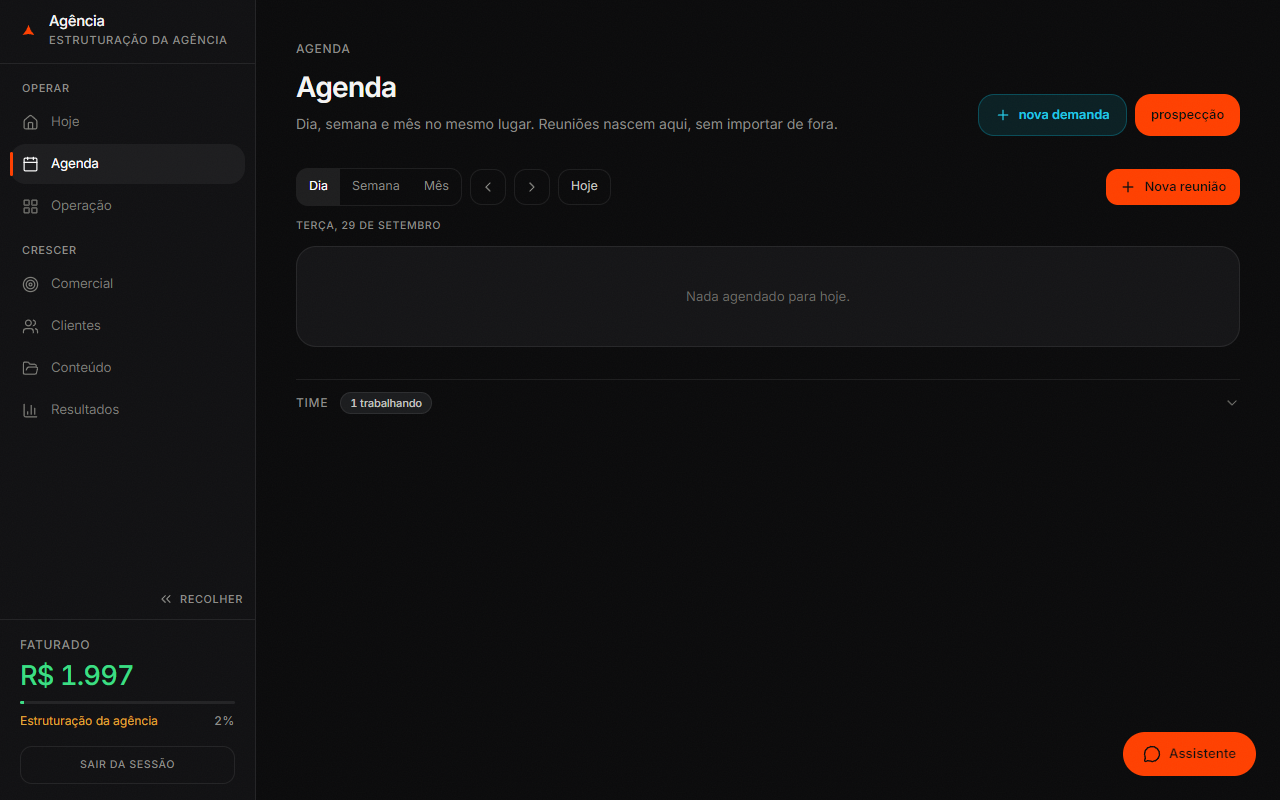
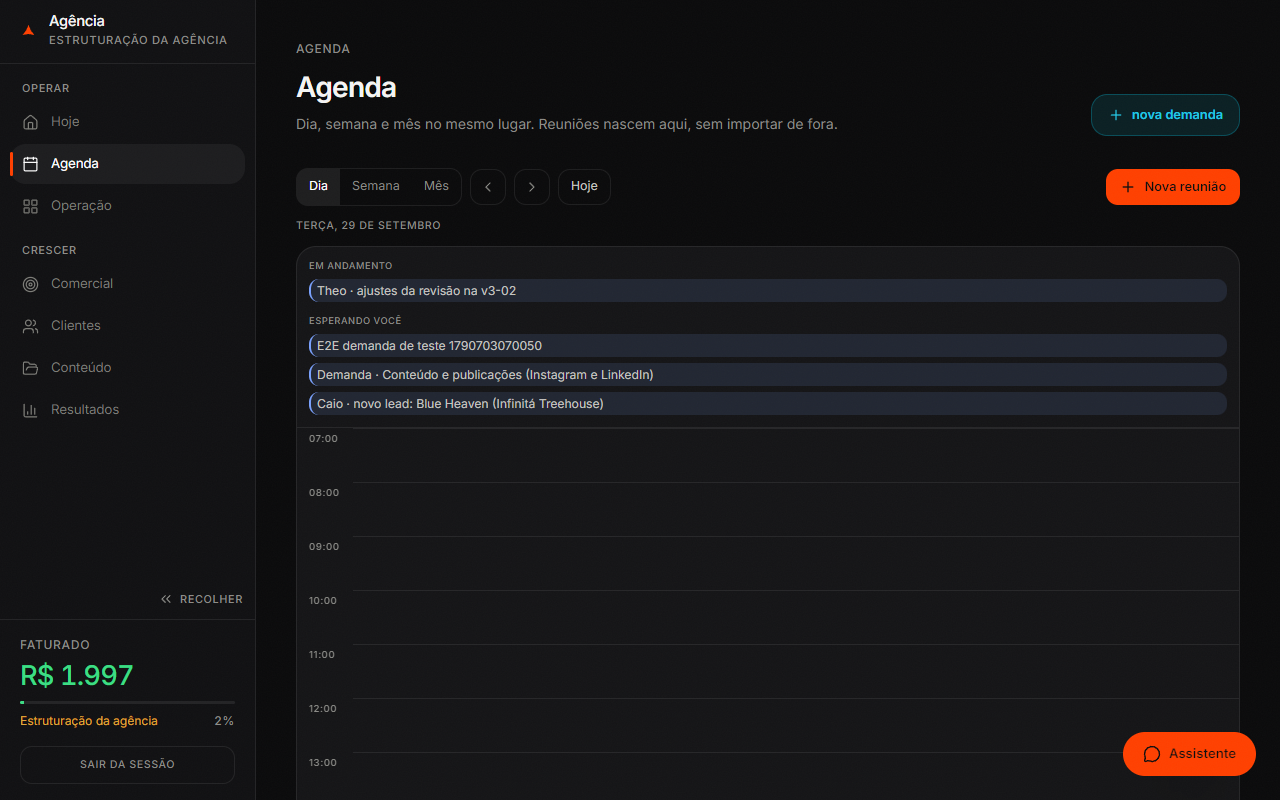
feat(plataforma): status aguardando_everton, agenda do dia cheia e ajustes do Hoje (v3-02)

Changed region(s): [[0.2188, 0.3125, 0.9688, 0.5625], [0.7812, 0.0938, 0.9688, 0.1875]]

diff --git a/apps/plataforma/src/components/hoje.tsx b/apps/plataforma/src/components/hoje.tsx
@@ -110,7 +110,8 @@ export function Hoje({ placar }: { placar: { progresso: number; acumulado: numbe
   });
 
   const hoje = ymd(new Date());
-  const bloqueadas = demandas.filter((d) => d.status === "bloqueada");
+  const aguardando = demandas.filter((d) => d.status === "aguardando_everton");
+  const emAndamento = demandas.filter((d) => d.status === "em_andamento");
   const reunioesHoje = reunioes.filter((r) => diaDe(r.quando) === hoje);
   const demandasHoje = demandas.filter((d) => d.prazo && diaDe(d.prazo) === hoje);
   const alertas = saude.filter(
@@ -165,16 +166,7 @@ export function Hoje({ placar }: { placar: { progresso: number; acumulado: numbe
         <h2 className="text-[clamp(1.3rem,3vw,1.6rem)] font-semibold tracking-[-.025em] leading-tight text-balance">
           {saudacao}, Everton
         </h2>
-        <p className="text-[.85rem] text-[var(--muted)] mt-1.5 capitalize">{dataExtenso}</p>
-        <div className="flex flex-wrap items-center gap-x-5 gap-y-1 mt-3">
-          <span className="nums text-[.9rem] text-[#3ddc84]">{fmtMoeda(placar.acumulado)}</span>
-          <span className="mono" style={{ fontSize: "0.66rem" }}>
-            {placar.progresso}% da meta
-          </span>
-          <span className="mono" style={{ fontSize: "0.66rem" }}>
-            {placar.fase || "-"}
-          </span>
-        </div>
+        <p className="text-[.85rem] text-[var(--muted)] mt-1.5">{dataExtenso}</p>
       </motion.div>
 
       {carregando ? (
@@ -183,16 +175,16 @@ export function Hoje({ placar }: { placar: { progresso: number; acumulado: numbe
         <>
           {/* a) aprovações pendentes */}
           <Bloco titulo="Aprovações pendentes">
-            {bloqueadas.length === 0 ? (
+            {aguardando.length === 0 ? (
               <div className="text-[.82rem] text-[#6b6b66]">Nada para aprovar agora.</div>
             ) : (
               <div className="space-y-3">
-                {bloqueadas.map((d) => {
+                {aguardando.map((d) => {
                   const motivo = d.log.length > 0 ? d.log[d.log.length - 1] : "";
                   return (
                     <div key={d.id} className="rounded-xl border border-[var(--line)] bg-[var(--bg-1)] p-3.5">
                       <div className="flex items-start gap-2.5">
-                        <span className="w-2 h-2 rounded-full mt-1.5 shrink-0" style={{ background: "#fb7185" }} />
+                        <span className="w-2 h-2 rounded-full mt-1.5 shrink-0" style={{ background: "#FF4000" }} />
                         <div className="min-w-0 flex-1">
                           <div className="text-[.9rem] font-medium leading-snug text-balance">{d.titulo}</div>
                           <div className="mono mt-1" style={{ fontSize: "0.64rem" }}>
@@ -231,25 +223,63 @@ export function Hoje({ placar }: { placar: { progresso: number; acumulado: numbe
 
           {/* b) agenda do dia */}
           <Bloco titulo="Agenda do dia">
-            {itensDia.length === 0 ? (
+            {itensDia.length === 0 && emAndamento.length === 0 && aguardando.length === 0 ? (
               <div className="text-[.82rem] text-[#6b6b66] leading-relaxed text-balance">
                 Nada agendado para hoje. As demandas aparecem aqui quando o Orion registra uma tarefa ou reunião.
               </div>
             ) : (
-              <div className="space-y-2">
-                {itensDia.map((it) => (
-                  <div key={`${it.tipo}-${it.id}`} className="flex items-start gap-3 py-2 border-b border-[var(--line)] last:border-0">
-                    <span className="w-14 shrink-0 nums text-[.78rem] text-[var(--ink-2)] pt-0.5">{it.hora || "dia"}</span>
-                    <span
-                      className="w-2 h-2 rounded-full mt-1.5 shrink-0"
-                      style={{ background: it.tipo === "reuniao" ? "#FF4000" : "#7aa2ff" }}
-                    />
-                    <div className="min-w-0 flex-1">
-                      <div className="text-[.86rem] leading-snug truncate">{it.titulo}</div>
-                      <div className="mono mt-0.5" style={{ fontSize: "0.62rem" }}>{it.detalhe}</div>
+              <div className="space-y-4">
+                {itensDia.length > 0 && (
+                  <div className="space-y-2">
+                    {itensDia.map((it) => (
+                      <div key={`${it.tipo}-${it.id}`} className="flex items-start gap-3 py-2 border-b border-[var(--line)] last:border-0">
+                        <span className="w-14 shrink-0 nums text-[.78rem] text-[var(--ink-2)] pt-0.5">{it.hora || "dia"}</span>
+                        <span
+                          className="w-2 h-2 rounded-full mt-1.5 shrink-0"
+                          style={{ background: it.tipo === "reuniao" ? "#FF4000" : "#7aa2ff" }}
+                        />
+                        <div className="min-w-0 flex-1">
+                          <div className="text-[.86rem] leading-snug truncate">{it.titulo}</div>
+                          <div className="mono mt-0.5" style={{ fontSize: "0.62rem" }}>{it.detalhe}</div>
+                        </div>
+                      </div>
+                    ))}
+                  </div>
+                )}
+
+                {emAndamento.length > 0 && (
+                  <div>
+                    <div className="mono mb-2" style={{ fontSize: "0.62rem" }}>Em andamento</div>
+                    <div className="space-y-1.5">
+                      {emAndamento.map((d) => (
+                        <div key={d.id} className="flex items-center gap-2.5">
+                          <span className="w-2 h-2 rounded-full shrink-0" style={{ background: "#54b8f0" }} />
+                          <div className="min-w-0 flex-1 text-[.84rem] leading-snug truncate">{d.titulo}</div>
+                          <span className="mono shrink-0" style={{ fontSize: "0.62rem", color: corAgente(d.persona) }}>
+                            {nomeAgente(d.persona)}
+                          </span>
+                        </div>
+                      ))}
                     </div>
                   </div>
-                ))}
+                )}
+
+                {aguardando.length > 0 && (
+                  <div>
+                    <div className="mono mb-2" style={{ fontSize: "0.62rem" }}>Esperando você</div>
+                    <div className="space-y-1.5">
+                      {aguardando.map((d) => (
+                        <div key={d.id} className="flex items-center gap-2.5">
+                          <span className="w-2 h-2 rounded-full shrink-0" style={{ background: "#FF4000" }} />
+                          <div className="min-w-0 flex-1 text-[.84rem] leading-snug truncate">{d.titulo}</div>
+                          <span className="mono shrink-0" style={{ fontSize: "0.62rem", color: corAgente(d.persona) }}>
+                            {nomeAgente(d.persona)}
+                          </span>
+                        </div>
+                      ))}
+                    </div>
+                  </div>
+                )}
               </div>
             )}
           </Bloco>

diff --git a/apps/plataforma/src/components/calendario.tsx b/apps/plataforma/src/components/calendario.tsx
@@ -4,7 +4,13 @@ import { useEffect, useState } from "react";
 import { ChevronLeft, ChevronRight, Plus } from "lucide-react";
 
 export type TipoEvento = "tarefa" | "reuniao" | "post" | "vencimento";
-export type EventoAgenda = { id: string; titulo: string; quando: string; tipo: TipoEvento };
+export type EventoAgenda = {
+  id: string;
+  titulo: string;
+  quando: string;
+  tipo: TipoEvento;
+  secao?: "em_andamento" | "aguardando_everton";
+};
 
 const TIPO_COR: Record<TipoEvento, string> = {
   tarefa: "#7aa2ff",
@@ -78,8 +84,11 @@ function Vazio({ children }: { children: React.ReactNode }) {
 function VisaoDia({ eventos, dataRef, agora, vazio }: { eventos: EventoAgenda[]; dataRef: Date; agora: Date; vazio?: string }) {
   const alvo = ymd(dataRef);
   const doDia = eventos.filter((e) => diaDe(e.quando) === alvo);
-  const semHora = doDia.filter((e) => !horaDe(e.quando));
-  const comHora = doDia.filter((e) => horaDe(e.quando));
+  const secaoHoje = alvo === ymd(agora);
+  const secaoItens = secaoHoje ? doDia.filter((e) => e.secao) : [];
+  const naTimeline = doDia.filter((e) => !e.secao);
+  const semHora = naTimeline.filter((e) => !horaDe(e.quando));
+  const comHora = naTimeline.filter((e) => horaDe(e.quando));
 
   const HORA_INI = 7;
   const HORA_FIM = 20;
@@ -101,8 +110,35 @@ function VisaoDia({ eventos, dataRef, agora, vazio }: { eventos: EventoAgenda[];
   const mostraAgora = hoje && ah >= HORA_INI && ah <= HORA_FIM;
   const agoraTop = (ah - HORA_INI) * ALT + (am / 60) * ALT;
 
+  const secaoEmAndamento = secaoItens.filter((e) => e.secao === "em_andamento");
+  const secaoAguardando = secaoItens.filter((e) => e.secao === "aguardando_everton");
+
   return (
     <div className="rounded-2xl border border-[var(--line)] bg-[var(--bg-2)] overflow-hidden">
+      {(secaoEmAndamento.length > 0 || secaoAguardando.length > 0) && (
+        <div className="p-3 border-b border-[var(--line)] space-y-3">
+          {secaoEmAndamento.length > 0 && (
+            <div>
+              <div className="mono mb-1.5" style={{ fontSize: "0.58rem" }}>Em andamento</div>
+              <div className="space-y-1.5">
+                {secaoEmAndamento.map((e) => (
+                  <Pilula key={e.id} e={e} />
+                ))}
+              </div>
+            </div>
+          )}
+          {secaoAguardando.length > 0 && (
+            <div>
+              <div className="mono mb-1.5" style={{ fontSize: "0.58rem" }}>Esperando você</div>
+              <div className="space-y-1.5">
+                {secaoAguardando.map((e) => (
+                  <Pilula key={e.id} e={e} />
+                ))}
+              </div>
+            </div>
+          )}
+        </div>
+      )}
       {semHora.length > 0 && (
         <div className="p-3 border-b border-[var(--line)] space-y-1.5">
           {semHora.map((e) => (

diff --git a/apps/plataforma/src/components/dashboard.tsx b/apps/plataforma/src/components/dashboard.tsx
@@ -307,15 +307,19 @@ export function Dashboard() {
                     </p>
                   </div>
                   <div className="flex gap-2 shrink-0 pt-1">
-                    <button onClick={() => go("operacao")}
-                      className="flex items-center gap-2 h-[42px] px-4 rounded-xl bg-[#06b6d4]/12 border border-[#06b6d4]/30 text-[#22c8e5] text-[.8rem] font-semibold transition-colors hover:bg-[#06b6d4]/20">
-                      <svg viewBox="0 0 24 24" className="w-4 h-4" fill="none" stroke="currentColor" strokeWidth="2" strokeLinecap="round"><path d="M12 5v14M5 12h14" /></svg>
-                      nova demanda
-                    </button>
-                    <button onClick={() => { localStorage.setItem("prospeccao.auto-start", "1"); go("pipeline"); }}
-                      className="flex items-center gap-2 h-[42px] px-4 rounded-xl bg-[#FF4000] hover:bg-[#ff5c22] text-[var(--accent-ink)] text-[.8rem] font-semibold transition-colors">
-                      prospecção
-                    </button>
+                    {view !== "operacao" && (
+                      <button onClick={() => go("operacao")}
+                        className="flex items-center gap-2 h-[42px] px-4 rounded-xl bg-[#06b6d4]/12 border border-[#06b6d4]/30 text-[#22c8e5] text-[.8rem] font-semibold transition-colors hover:bg-[#06b6d4]/20">
+                        <svg viewBox="0 0 24 24" className="w-4 h-4" fill="none" stroke="currentColor" strokeWidth="2" strokeLinecap="round"><path d="M12 5v14M5 12h14" /></svg>
+                        nova demanda
+                      </button>
+                    )}
+                    {view === "pipeline" && (
+                      <button onClick={() => { localStorage.setItem("prospeccao.auto-start", "1"); go("pipeline"); }}
+                        className="flex items-center gap-2 h-[42px] px-4 rounded-xl bg-[#FF4000] hover:bg-[#ff5c22] text-[var(--accent-ink)] text-[.8rem] font-semibold transition-colors">
+                        prospecção
+                      </button>
+                    )}
                   </div>
                 </div>
               </motion.div>

diff --git a/apps/plataforma/src/components/operacao.tsx b/apps/plataforma/src/components/operacao.tsx
@@ -19,6 +19,7 @@ type Demanda = {
 const STATUS_ORDEM = [
   "fila",
   "em_andamento",
+  "aguardando_everton",
   "bloqueada",
   "aguardando_cliente",
   "concluida",
@@ -33,6 +34,11 @@ function fmtCurto(q: string) {
   if (!y || !m || !d) return "";
   return `${d}/${m}`;
 }
+function hojeYmd() {
+  const d = new Date();
+  const p = (n: number) => String(n).padStart(2, "0");
+  return `${d.getFullYear()}-${p(d.getMonth() + 1)}-${p(d.getDate())}`;
+}
 
 export function Operacao() {
   const [demandas, setDemandas] = useState<Demanda[]>([]);
@@ -41,6 +47,7 @@ export function Operacao() {
   const [busca, setBusca] = useState("");
   const [novoTexto, setNovoTexto] = useState("");
   const [novaPersona, setNovaPersona] = useState("orion");
+  const [novoPrazo, setNovoPrazo] = useState(hojeYmd);
   const [painelNova, setPainelNova] = useState(false);
   const [busy, setBusy] = useState(false);
 
@@ -89,8 +96,9 @@ export function Operacao() {
 
   function despachar() {
     if (!novoTexto.trim()) return;
-    post({ action: "nova", texto: novoTexto.trim(), atribuido: novaPersona }).then(() => {
+    post({ action: "nova", texto: novoTexto.trim(), atribuido: novaPersona, prazo: novoPrazo }).then(() => {
       setNovoTexto("");
+      setNovoPrazo(hojeYmd());
       setPainelNova(false);
     });
   }
@@ -190,6 +198,13 @@ export function Operacao() {
                 </option>
               ))}
             </select>
+            <input
+              type="date"
+              value={novoPrazo}
+              onChange={(e) => setNovoPrazo(e.target.value)}
+              aria-label="prazo"
+              className="h-10 bg-[var(--bg-3)] border border-[var(--line)] rounded-xl px-3 text-[.84rem] outline-none focus:border-[#FF4000]/60"
+            />
             <button
               onClick={despachar}
               disabled={busy}

diff --git a/apps/plataforma/src/components/agenda.tsx b/apps/plataforma/src/components/agenda.tsx
@@ -62,11 +62,27 @@ export function Agenda() {
     return () => window.removeEventListener("keydown", onKey);
   }, [aberto]);
 
+  const hoje = (() => {
+    const d = new Date();
+    const p = (n: number) => String(n).padStart(2, "0");
+    return `${d.getFullYear()}-${p(d.getMonth() + 1)}-${p(d.getDate())}`;
+  })();
+  const comPrazo = demandas.filter((d) => d.prazo);
+  const idsComPrazoHoje = new Set(comPrazo.filter((d) => d.prazo.slice(0, 10) === hoje).map((d) => d.id));
+  const secaoHoje = demandas.filter(
+    (d) => (d.status === "em_andamento" || d.status === "aguardando_everton") && !idsComPrazoHoje.has(d.id),
+  );
+
   const eventos: EventoAgenda[] = [
     ...reunioes.map((r) => ({ id: r.id, titulo: r.titulo, quando: r.quando, tipo: "reuniao" as const })),
-    ...demandas
-      .filter((d) => d.prazo)
-      .map((d) => ({ id: d.id, titulo: d.titulo, quando: d.prazo, tipo: "tarefa" as const })),
+    ...comPrazo.map((d) => ({ id: d.id, titulo: d.titulo, quando: d.prazo, tipo: "tarefa" as const })),
+    ...secaoHoje.map((d) => ({
+      id: d.id,
+      titulo: d.titulo,
+      quando: hoje,
+      tipo: "tarefa" as const,
+      secao: d.status === "em_andamento" ? ("em_andamento" as const) : ("aguardando_everton" as const),
+    })),
   ];
 
   function abrirModal() {

diff --git a/apps/plataforma/src/app/api/orquestra/route.ts b/apps/plataforma/src/app/api/orquestra/route.ts
@@ -21,6 +21,7 @@ const STATUS_MAP: Record<string, DemandaStatus> = {
   // atuais
   fila: "fila",
   em_andamento: "em_andamento",
+  aguardando_everton: "aguardando_everton",
   bloqueada: "bloqueada",
   aguardando_cliente: "aguardando_cliente",
   concluida: "concluida",
@@ -48,6 +49,7 @@ export async function POST(req: Request) {
       titulo: texto,
       persona: body.atribuido || "orion",
       origem: "kanban",
+      prazo: body.prazo,
     });
     return NextResponse.json({ ok: true, demanda }, { status: 201 });
   }
@@ -91,7 +93,7 @@ export async function POST(req: Request) {
   }
 
   if (body.action === "devolver") {
-    const d = await atualizarStatus(String(body.id), "fila", { quem: "everton", nota: "devolvida" });
+    const d = await atualizarStatus(String(body.id), "em_andamento", { quem: "everton", nota: "devolvida" });
     if (!d) return NextResponse.json({ ok: false, error: "demanda não encontrada" }, { status: 404 });
     return NextResponse.json({ ok: true });
   }

diff --git a/apps/plataforma/src/components/demandas.tsx b/apps/plataforma/src/components/demandas.tsx
@@ -18,6 +18,7 @@ export const CORES: Record<string, string> = {
 export const ST_LBL: Record<string, string> = {
   fila: "na fila",
   em_andamento: "em andamento",
+  aguardando_everton: "Aguardando você",
   bloqueada: "bloqueada",
   aguardando_cliente: "aguardando cliente",
   concluida: "concluída",
@@ -26,6 +27,7 @@ export const ST_LBL: Record<string, string> = {
 export const ST_COR: Record<string, string> = {
   fila: "#d9a03a",
   em_andamento: "#7aa2ff",
+  aguardando_everton: "#FF4000",
   bloqueada: "#fb7185",
   aguardando_cliente: "#f59e0b",
   concluida: "#3ddc84",

diff --git a/apps/plataforma/src/lib/demandas.ts b/apps/plataforma/src/lib/demandas.ts
@@ -9,6 +9,7 @@ const DIR = join(VAULT, "SaaS", "Agentes", "Demandas");
 export type DemandaStatus =
   | "fila"
   | "em_andamento"
+  | "aguardando_everton"
   | "bloqueada"
   | "aguardando_cliente"
   | "concluida"
@@ -178,7 +179,7 @@ export async function criarDemanda(op: {
     criada_em: agora,
     iniciada_em: "",
     concluida_em: "",
-    prazo: op.prazo || "",
+    prazo: op.prazo || new Date().toISOString().slice(0, 10),
     cliente: op.cliente || "",
     projeto: op.projeto || "",
     origem: op.origem || "orion",

diff --git a/docs/demandas/2026-09-29/30-theo-v3-02-ajustes.md b/docs/demandas/2026-09-29/30-theo-v3-02-ajustes.md
@@ -1,0 +1,12 @@
+# Theo · Ajustes da revisão do Orion na v3-02 (cópia D:/studio-v3-02, branch feat/v3-02)
+
+Mesmas regras de segurança do briefing 29 (porta 3102, não tocar a 3100 nem D:/studio). Commite na branch.
+
+1. Status novo `aguardando_everton` (rótulo "Aguardando você") em lib/demandas.ts, _scripts/lib/demanda.mjs, operacao.tsx (coluna própria, logo após Em andamento) e onde houver mapa de status. A caixa "Aprovações pendentes" do Hoje (components/hoje.tsx:113) passa a listar `aguardando_everton` (não `bloqueada`); aprovar = concluida, devolver = em_andamento com linha no Log.
+2. `_scripts/persona.mjs`: ao terminar com sucesso, se o relatório da persona tiver "PENDENTE:" com decisão/aprovação do Everton (palavras aprovar, aprovação, decisão, Everton), gravar status `aguardando_everton`; senão `concluida`. Ajuste o e2e para cobrir isso.
+3. Marcar como `aguardando_everton` as demandas dem-2026-09-28-4 (e-mail Blue Heaven aguarda aprovação) e dem-2026-09-29-25 (6 posts aguardam aprovação), com linha no Log.
+4. Agenda do dia (Hoje e aba Agenda, visão Dia): além dos itens com prazo/reunião de hoje, mostrar as demandas `em_andamento` e as `aguardando_everton` (seção "Em andamento" e "Esperando você"), para a tela nunca ficar vazia com o time trabalhando. Nova demanda criada sem prazo recebe prazo = hoje por padrão (editável).
+5. Placar aparece uma vez só no Hoje: tirar a linha "R$ 1.997 · 2% da meta" do cabeçalho do Hoje (fica o card Placar; a barra lateral continua).
+6. Botões do cabeçalho por aba: "prospecção" só aparece em Comercial; "nova demanda" do cabeçalho some em Operação (já existe na barra de ferramentas dela). Em Hoje e Agenda fica só "nova demanda".
+7. Data em minúsculas no padrão brasileiro: "terça-feira, 29 de setembro" (Hoje e Agenda; hoje sai "Terça-Feira, 29 De Setembro").
+Pronto = tsc + build OK, e2e-operacao.mjs e e2e-demanda.mjs PASS na 3102, prints novos em _scripts/qa/prints-v3-02/ (hoje, agenda, operacao em 1280 e 375). Pare o servidor de teste no fim.
